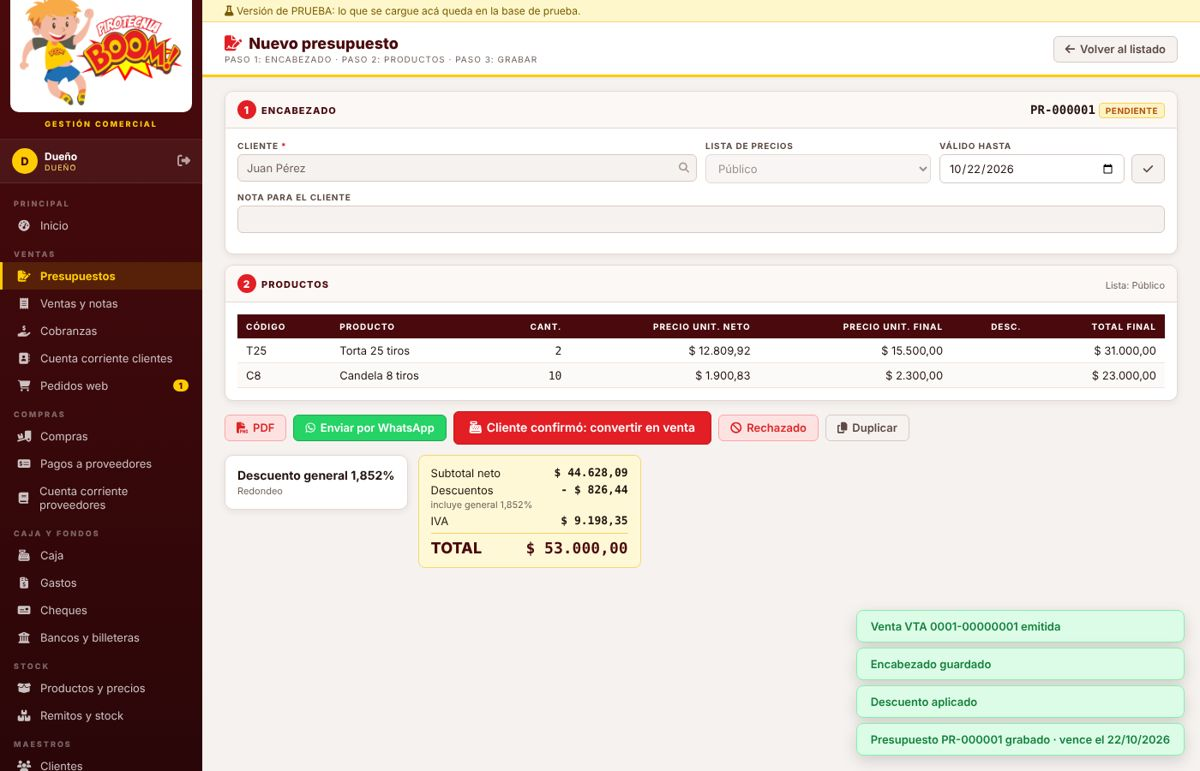
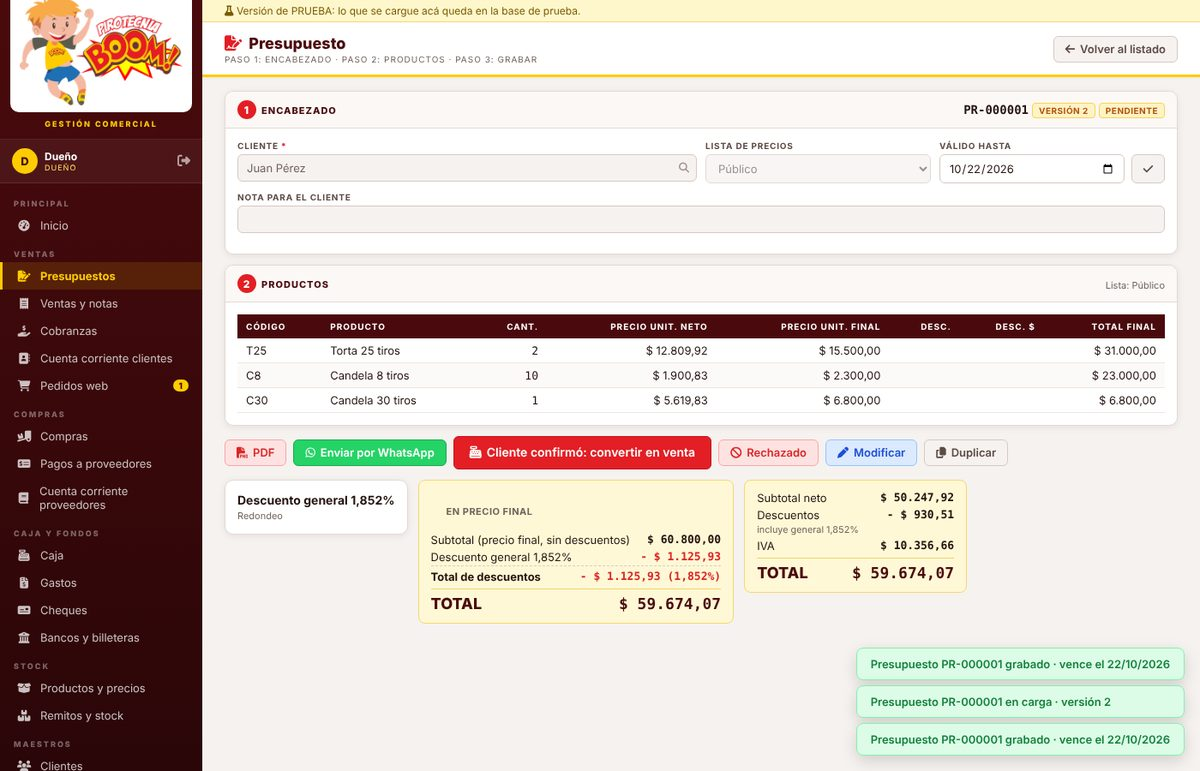
Manual y circuitos v9: desglose de descuentos y Modificar presupuesto
Claude-Session: https://claude.ai/code/session_017b1w5AMczjtWGQrhQYJVcd

diff --git a/manual/index.html b/manual/index.html
@@ -1,4 +1,3 @@
-<!doctype html><html lang="es"><head><meta charset="utf-8"><meta name="viewport" content="width=device-width,initial-scale=1,viewport-fit=cover"></head><body>
 <title>Manual Pirotecnia Boom</title>
 <meta name="claude:viewport-fit-sides" content="cover">
 <link rel="preconnect" href="https://fonts.googleapis.com">
@@ -198,7 +197,7 @@ const S = [
     'Arriba a la derecha tenés atajos: ' + B('+ Nueva venta') + ' y ' + B('Nuevo presupuesto','y') + '.'],
   ojo:['Si dice <b>Caja CERRADA</b>, no vas a poder vender de contado ni cobrar en efectivo: primero abrí la caja.'] },
 
-{ id:'presupuestos', g:'Ventas', t:'Presupuestos', shot:'10_presupuesto', cap:'Presupuesto con dos productos, listo para PDF, WhatsApp o convertir en venta.',
+{ id:'presupuestos', g:'Ventas', t:'Presupuestos', shot:'10_presupuesto', cap:'Presupuesto grabado (versión 2) con el detalle de descuentos en precio final y el botón Modificar.',
   para:'Cotizaciones para clientes. El presupuesto guarda sus precios mientras está vigente: si después sube un costo, el cliente paga lo presupuestado.',
   pasos:['Tocá ' + B('+ Nuevo presupuesto') + '.',
     '<b>Paso 1 · Encabezado.</b> Elegí el <b>Cliente</b> en el buscador. Si no existe, tocá el botón de la persona con + al lado y dalo de alta ahí mismo.',
@@ -208,7 +207,9 @@ const S = [
     'Poné la <b>Cantidad</b> y tocá ' + B('+ Agregar') + ' (o Enter). La línea entra en la grilla y el total de abajo a la derecha se actualiza.',
     'Repetí con cada producto. Para corregir una línea tocá el lápiz; para sacarla, el tacho.',
     '<b>Descuento general (opcional, solo el dueño).</b> Abajo, en el recuadro <b>3 · Descuento general</b>: escribí el número, elegí <b>%</b> o <b>$</b> (en $ es lo que se descuenta del total con IVA), escribí el <b>Motivo</b> y tocá ' + B('Aplicar descuento y motivo','s') + '. El total se recalcula. Si el cliente tiene descuento propio, ya viene aplicado solo y se ve en los totales.',
-    '<b>Paso 3 · Grabar.</b> Tocá ' + B('Grabar presupuesto') + ' al pie. Queda <b>Pendiente</b>, ya no se modifica y la validez de 2 días empieza a correr. Recién ahí aparecen PDF, WhatsApp y Convertir.',
+    'Al lado de los totales, el recuadro <b>En precio final</b> muestra la cuenta como la ve el cliente: subtotal sin descuentos, cada descuento en pesos (por línea, del cliente, general), el <b>Total de descuentos</b> con su % sobre el total y el <b>TOTAL</b>. En la grilla, la columna <b>Desc. $</b> muestra cuánto se descontó en cada línea.',
+    '<b>Paso 3 · Grabar.</b> Tocá ' + B('Grabar presupuesto') + ' al pie. Queda <b>Pendiente</b> y la validez empieza a correr. Recién ahí aparecen PDF, WhatsApp y Convertir.',
+    '<b>Modificar uno ya grabado.</b> Si el cliente pide un cambio, abrilo y tocá ' + B('Modificar','s') + ' (o el lápiz en la grilla). Vuelve a <b>En carga</b> con el <b>mismo número</b> y pasa a <b>versión 2</b> (v3, v4… cada vez). Cambiá lo que haga falta y grabalo de nuevo. Se puede con Pendientes y Vencidos; no con los ya convertidos en venta ni con los rechazados (esos se duplican).',
     'Para mandarlo: ' + B('PDF','s') + ' lo descarga, ' + B('Enviar por WhatsApp','g') + ' abre WhatsApp con un mensaje y un link donde el cliente lo ve y lo descarga.',
     'Cuando el cliente confirma, tocá ' + B('Cliente confirmó: convertir en venta') + ': elegí Contado (pasa al cobro) o Cuenta corriente, y si emitiste factura ARCA aparte, su número. Se emite la venta con los precios del presupuesto.',
     'Si no acepta, tocá ' + B('Rechazado','s') + ' y anotá el motivo. ' + B('Duplicar','s') + ' crea uno nuevo igual pero con los precios de hoy.'],
@@ -222,12 +223,12 @@ const S = [
     ['Desc. línea %','Descuento de esa línea. Solo el dueño.','No'],
     ['Descuento general (al pie)','Número en % o en $. Solo el dueño, antes de grabar.','No'],
     ['Motivo del descuento / precio especial (al pie)','Obligatorio si hay descuento general, descuento por línea o precio especial.','A veces']],
-  botones:[['Excel / PDF','Descarga el listado filtrado.'],['Lápiz u ojo','Abre el presupuesto (lápiz si se puede editar, ojo si ya está cerrado).'],['WhatsApp','Lo manda al celular del cliente.'],['Caja registradora','Convertir en venta.'],['Copiar','Duplicar con precios actuales.']],
+  botones:[['Excel / PDF','Descarga el listado filtrado.'],['Lápiz u ojo','Abre el presupuesto (lápiz si se puede editar o modificar, ojo si ya está cerrado).'],['Modificar','Reabre un presupuesto grabado (Pendiente o Vencido) como nueva versión, con el mismo número.'],['WhatsApp','Lo manda al celular del cliente.'],['Caja registradora','Convertir en venta.'],['Copiar','Duplicar con precios actuales.']],
   ojo:['Estados: <b>En carga</b> → (Grabar) → <b>Pendiente</b> → <b>Aceptado</b> (se convirtió en venta) · <b>Rechazado</b> · <b>Vencido</b>.',
     'La lista abre filtrada en <b>Pendientes</b>: los que esperan respuesta del cliente.',
-    'Un presupuesto grabado no se edita: duplicalo (el nuevo toma los precios de hoy).',
+    'Un presupuesto grabado se modifica con ' + B('Modificar','s') + ': mismo número, versión nueva (se ve <b>v2</b> en la grilla, en el PDF y en la página del cliente). Mantiene los precios que tenía. Si querés los precios de hoy, usá ' + B('Duplicar','s') + '.',
     'Los descuentos se aplican <b>en cascada</b>, uno sobre el otro: primero el de la línea, después el propio del cliente y al final el general. Ejemplo: $ 1.000 con 10 % de cliente y 5 % general = $ 855 (no $ 850).',
-    'En el PDF y en la página que ve el cliente aparece el subtotal, el descuento en pesos y el total.',
+    'En el PDF y en la página que ve el cliente aparece el mismo detalle del recuadro <b>En precio final</b>: subtotal sin descuentos, cada descuento en pesos, el total de descuentos con su % y el TOTAL.',
     'Las tarjetas de arriba muestran la <b>Efectividad</b>: aceptados sobre enviados.'] },
 
 { id:'ventas', g:'Ventas', t:'Ventas y notas', shot:'20_venta_cc', cap:'Venta en carga: encabezado, productos y botón Confirmar venta.',
@@ -238,6 +239,7 @@ const S = [
     'Completá si hace falta Recargo, Envío, Nota o N° de factura ARCA, y tocá ' + B('Guardar encabezado y cargar productos') + '.',
     '<b>Paso 2 · Productos.</b> Buscá el producto, poné la cantidad y tocá ' + B('+ Agregar') + '. Repetí. Si no hay stock suficiente, el sistema avisa y no lo deja agregar.',
     '<b>Descuento general (opcional, solo el dueño).</b> En el recuadro <b>3 · Descuento general</b> de abajo: número en % o en $, <b>Motivo</b> y ' + B('Aplicar descuento y motivo','s') + '. Si pusiste un descuento por línea o un precio especial, el motivo se escribe ahí mismo (aunque el descuento general quede en 0).',
+    'Al lado de los totales, el recuadro <b>En precio final</b> muestra subtotal sin descuentos, cada descuento en pesos, el total de descuentos con su % y el TOTAL. Lo mismo sale en el PDF de la venta y en el comprobante.',
     '<b>Paso 3 · Confirmar.</b> Revisá el total y tocá ' + B('Confirmar venta') + '.',
     'Si es <b>Cuenta corriente</b>, confirmás y listo: queda como deuda del cliente.',
     'Si es <b>Contado</b>, se abre la ventana de cobro (ver abajo). Al confirmar el cobro se emite la venta <code>VTA 0001-00000001</code> y se abre el comprobante.',

diff --git a/circuitos/index.html b/circuitos/index.html
@@ -1,4 +1,3 @@
-<!doctype html><html lang="es"><head><meta charset="utf-8"><meta name="viewport" content="width=device-width,initial-scale=1,viewport-fit=cover"></head><body>
 <title>Circuitos Pirotecnia Boom</title>
 <meta name="claude:viewport-fit-sides" content="cover">
 <link rel="preconnect" href="https://fonts.googleapis.com">
@@ -73,12 +72,12 @@ a:focus-visible{outline:2px solid var(--amarillo);outline-offset:2px}
   <div class="flujo">
     <div class="p est"><b>En carga</b><span>Encabezado y productos. Se puede cambiar todo.</span></div><div class="fl">→</div>
     <div class="p"><b>Grabar presupuesto</b><span>Botón al pie. Recién ahí aparecen PDF, WhatsApp y Convertir.</span></div><div class="fl">→</div>
-    <div class="p est"><b>Pendiente</b><span>Ya no se editan los productos. Vence en la fecha elegida (mínimo 2 días) y se puede extender. Se manda por PDF o WhatsApp.</span></div>
+    <div class="p est"><b>Pendiente</b><span>Vence en la fecha elegida (mínimo 2 días) y se puede extender. Se manda por PDF o WhatsApp. Con <b>Modificar</b> vuelve a En carga como versión 2, 3…</span></div>
   </div>
   <div class="ramas">
     <div class="flujo"><span class="r">El cliente confirma</span><div class="fl">→</div><div class="p"><b>Convertir en venta</b><span>Contado (cobro) o cuenta corriente, con los precios del presupuesto.</span></div><div class="fl">→</div><div class="p fin"><b>Aceptado</b><span>Queda unido a su venta.</span></div></div>
     <div class="flujo"><span class="r">No acepta</span><div class="fl">→</div><div class="p malo"><b>Rechazado</b><span>Con motivo.</span></div></div>
-    <div class="flujo"><span class="r">Pasa la validez</span><div class="fl">→</div><div class="p malo"><b>Vencido</b><span>Automático. Para retomarlo: Duplicar (toma precios de hoy).</span></div></div>
+    <div class="flujo"><span class="r">Pasa la validez</span><div class="fl">→</div><div class="p malo"><b>Vencido</b><span>Automático. Para retomarlo: Modificar (mismos precios, versión nueva) o Duplicar (precios de hoy).</span></div></div>
   </div>
   <h3>Qué mueve</h3>
   <div class="tw"><table><thead><tr><th>Paso</th><th>Stock</th><th>Caja / banco</th><th>Cuenta corriente</th></tr></thead><tbody>
@@ -89,9 +88,9 @@ a:focus-visible{outline:2px solid var(--amarillo);outline-offset:2px}
     <li><code>P1</code><span>El <b>vencimiento se elige</b> en el presupuesto: viene en 2 días y se puede dar más. Al grabar, nunca menos de 2 días. Un pendiente se puede extender. Son días corridos: vence al terminar el día elegido.</span></li>
     <li><code>P2</code><span>El presupuesto <b>no reserva stock</b>. Si al convertirlo no hay stock, el sistema no deja emitir la venta.</span></li>
     <li><code>P3</code><span>Mientras está pendiente <b>respeta su precio</b> aunque suba el costo.</span></li>
-    <li><code>P4</code><span>Un presupuesto grabado <b>no se modifica</b>: se duplica y se graba uno nuevo.</span></li>
+    <li><code>P4</code><span>Un presupuesto grabado (Pendiente o Vencido) se <b>modifica</b> con el botón Modificar: mismo número, <b>versión nueva</b> (v2, v3…), y se graba otra vez. Los convertidos en venta y los rechazados no se modifican: se duplican.</span></li>
     <li><code>P5</code><span>El operador puede presupuestar, pero <b>no poner descuentos ni precios especiales</b>. El descuento propio del cliente sí se aplica solo.</span></li>
-    <li><code>P6</code><span>El <b>descuento general</b> va <b>al pie</b>, en % o en $, antes de grabar. En el PDF se ve el descuento en pesos.</span></li>
+    <li><code>P6</code><span>El <b>descuento general</b> va <b>al pie</b>, en % o en $, antes de grabar. En pantalla, en el PDF y en la página del cliente se ve el detalle: cada descuento en pesos, el total de descuentos con su % y el total final.</span></li>
   </ul>
 </section>
 
